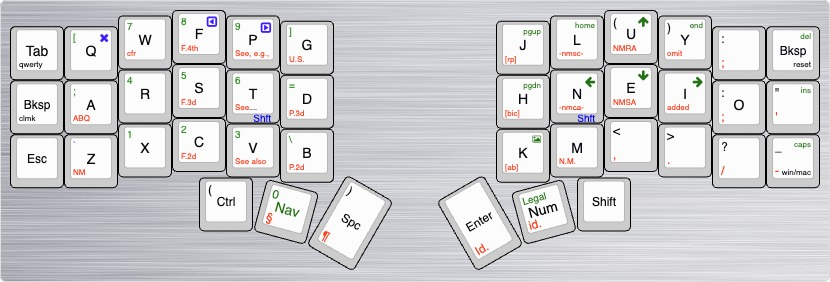
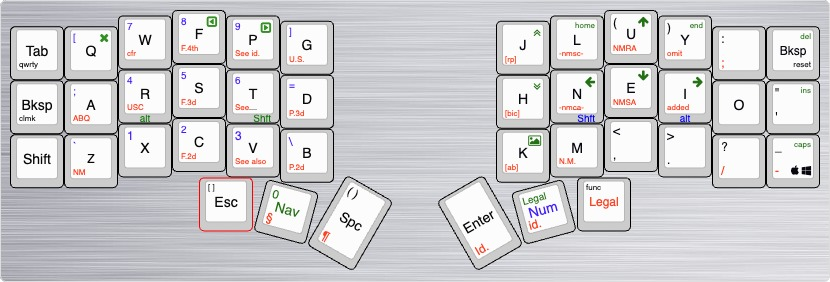
parens and such

diff --git a/keymap.c b/keymap.c
@@ -49,6 +49,7 @@ const char* layer_names[][2] = {
 enum {
   TD_LBKT_LBRC = 0,
   TD_RBKT_RBRC,
+  TD_PAREN
 };
 
 // tap dance definitions
@@ -56,12 +57,14 @@ tap_dance_action_t tap_dance_actions[] = {
   // tap once for left bracket, twice for left brace
   [TD_LBKT_LBRC] = ACTION_TAP_DANCE_DOUBLE(KC_LBRC, KC_LCBR),
   [TD_RBKT_RBRC] = ACTION_TAP_DANCE_DOUBLE(KC_RBRC, KC_RCBR),
+  [TD_PAREN] = ACTION_TAP_DANCE_DOUBLE(KC_LPRN, KC_RPRN),
 };
 
 // hit bracket twice for curly brace
 // pondering making a double semicolon be a colon
 #define DZTDLBC TD(TD_LBKT_LBRC)
 #define DZTDRBC TD(TD_RBKT_RBRC)
+#define DZTDPRN TD(TD_PAREN)
 
 
 // key override - make shift backspace send a delete
@@ -120,13 +123,13 @@ const uint16_t PROGMEM keymaps[][MATRIX_ROWS][MATRIX_COLS] = {
   //|--------+--------+--------+--------+--------+--------|                    |--------+--------+--------+--------+--------+--------|
     OSL(_LAW),  KC_GRV,    KC_1,    KC_2,    KC_3, KC_BSLS,                      _______, _______, _______, _______, _______, _______, 
   //|--------+--------+--------+--------+--------+--------+--------|  |--------+--------+--------+--------+--------+--------+--------|
-                                          KC_LPRN,    KC_0, KC_RPRN,    _______, _______, _______
+                                          KC_LPRN,    KC_0, DZTDPRN,    _______, _______, _______
                                       //`--------------------------'  `--------------------------'
   ),
 
   [_LAW] = LAYOUT_split_3x6_3(
   //,-----------------------------------------------------.                    ,-----------------------------------------------------.
-      XXXXXXX, XXXXXXX,  DZ_CFR,   DZ_F4, DZ_SEEG,   DZ_US,                        DZ_RP, DZ_NMSC, DZ_NMRA,   DZ_CO,  DZ_ROG, XXXXXXX,
+      XXXXXXX, XXXXXXX,  DZ_CFR,   DZ_F4,  DZ_SID,   DZ_US,                        DZ_RP, DZ_NMSC, DZ_NMRA,   DZ_CO,  DZ_ROG, XXXXXXX,
   //|--------+--------+--------+--------+--------+--------|                    |--------+--------+--------+--------+--------+--------|
       XXXXXXX,  DZ_ABQ,  DZ_USC,  DZ_F3D,  DZ_SEE,  DZ_P3D,                       DZ_BIC, DZ_NMCA, DZ_NMSA,   DZ_EA, XXXXXXX, DZ_RQOT,
   //|--------+--------+--------+--------+--------+--------|                    |--------+--------+--------+--------+--------+--------|
